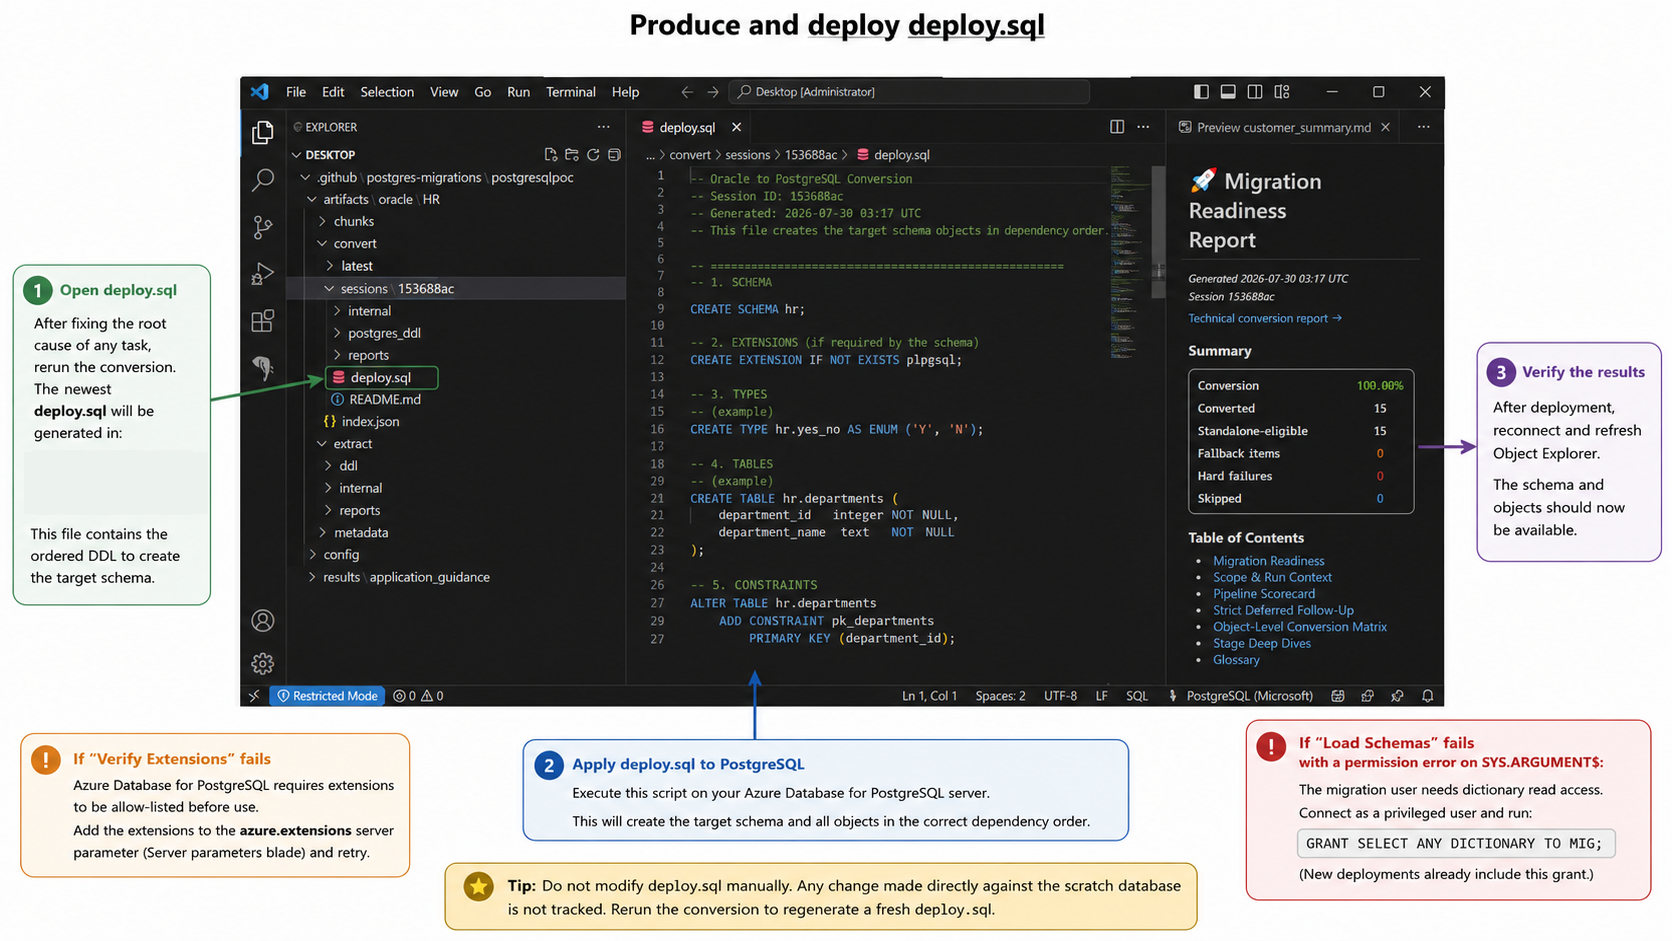
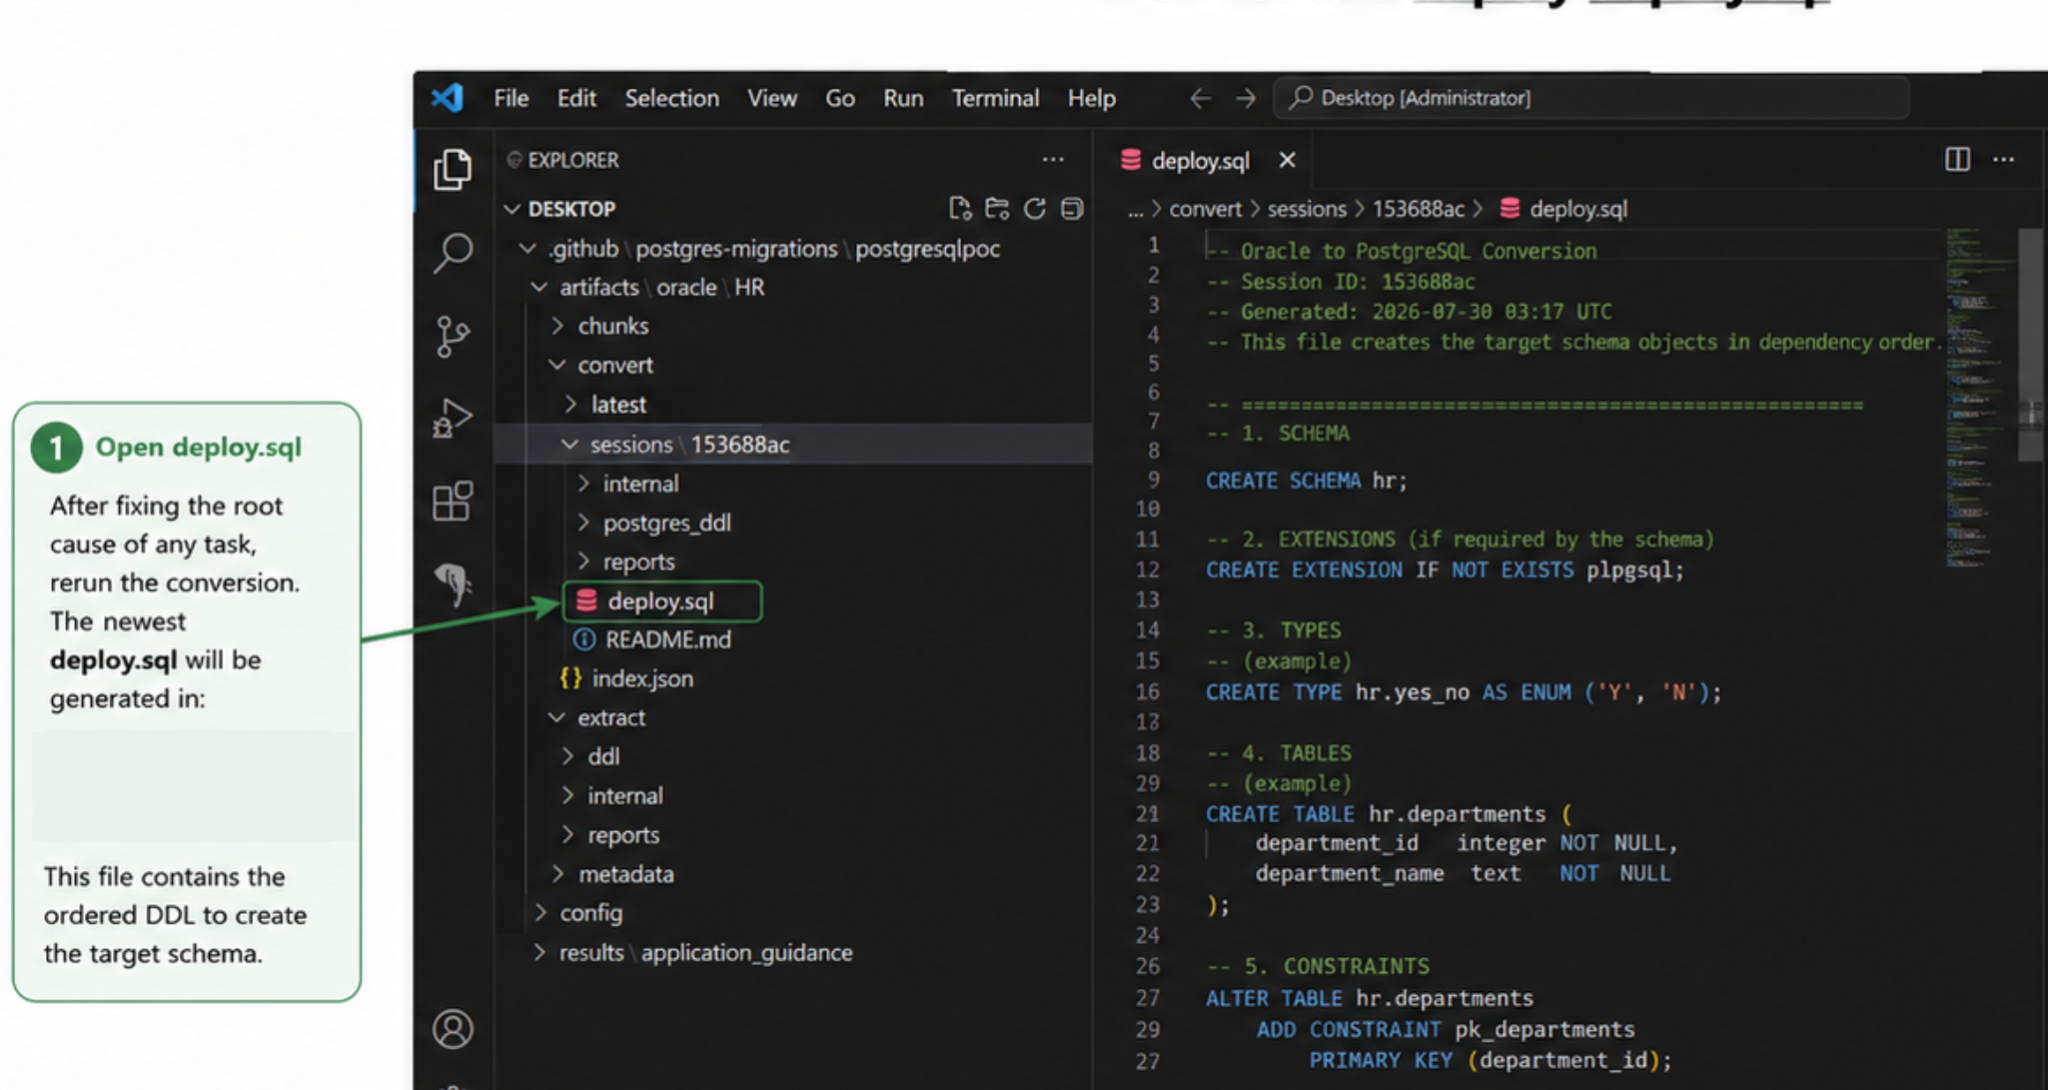
update

diff --git a/README.md b/README.md
@@ -351,7 +351,7 @@ To deploy it to the PostgreSQL target:
 3. Run the whole file (**Run Query**). The objects are created in dependency order.
 4. Refresh the explorer and confirm the schema objects now exist **under `migration_sandbox`**.
 
-[![Visual Studio Code with deploy.sql open from the session folder showing the Open, Apply, and Verify actions for deploying the ordered CREATE SCHEMA, TABLES, and CONSTRAINTS DDL to PostgreSQL](deploy/azure/media/deployment-guide/21-deploy-sql-overview.png)](deploy/azure/media/deployment-guide/21-deploy-sql-overview.png)
+[![Visual Studio Code Explorer showing the deploy.sql file under artifacts/oracle/HR/convert/sessions in the migration project, opened to reveal the ordered CREATE SCHEMA, EXTENSIONS, TYPES, TABLES, and CONSTRAINTS DDL that builds the target schema in dependency order](deploy/azure/media/deployment-guide/21-deploy-sql-overview.png)](deploy/azure/media/deployment-guide/21-deploy-sql-overview.png)
 
 [![Visual Studio Code PostgreSQL explorer showing the migrated tables and views under the migration_sandbox database public schema, confirming the deployed schema](deploy/azure/media/deployment-guide/22-schema-deployed-verified.png)](deploy/azure/media/deployment-guide/22-schema-deployed-verified.png)
 
